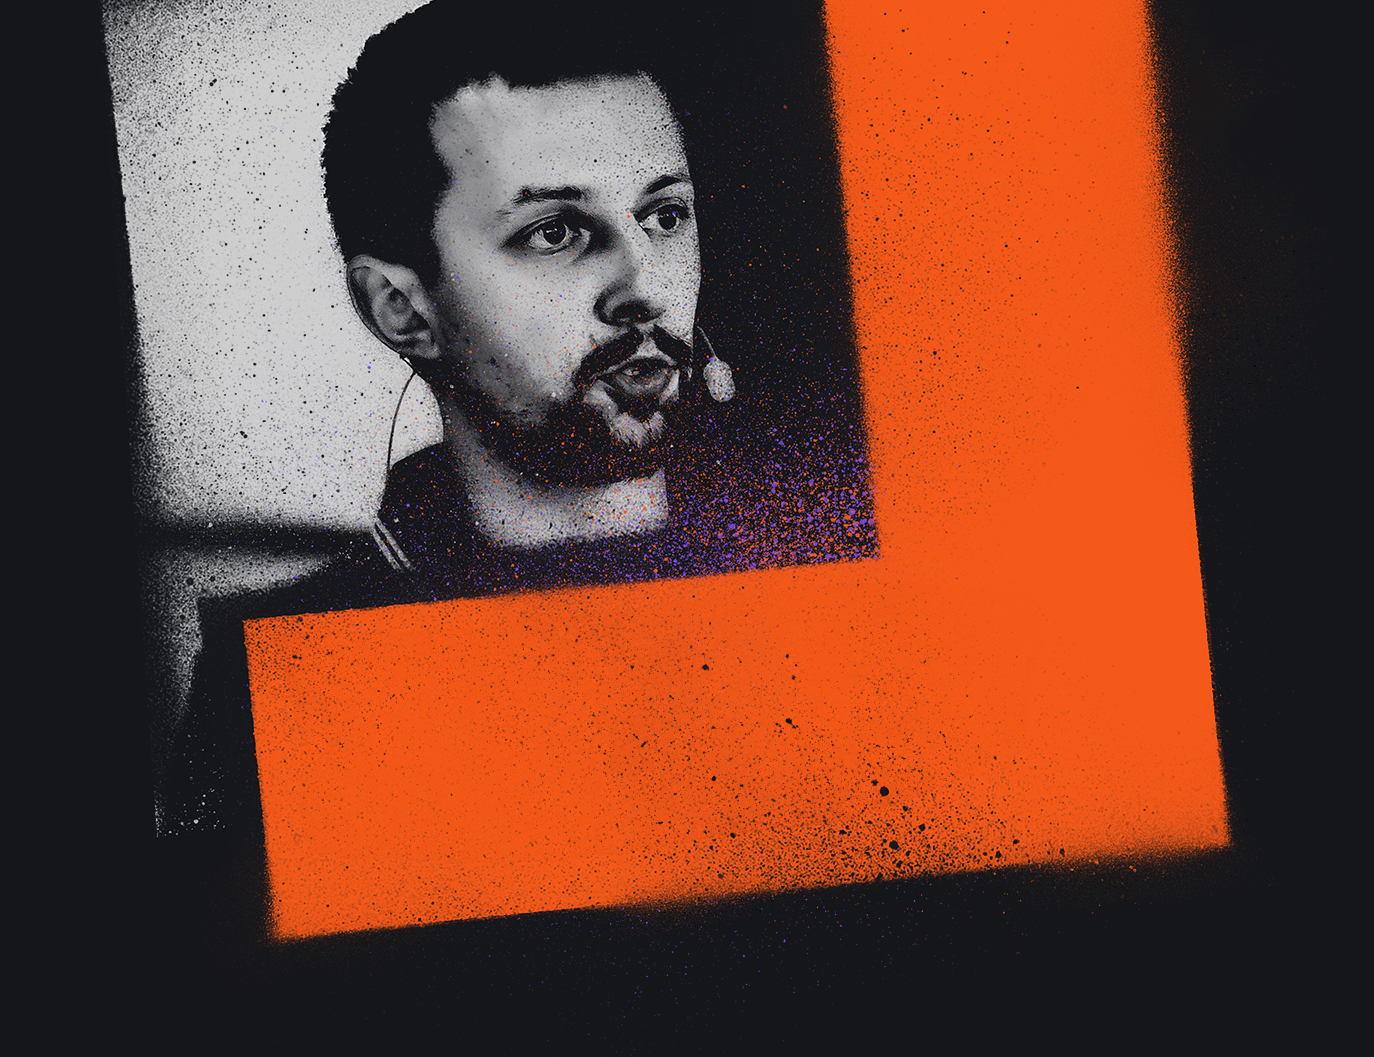
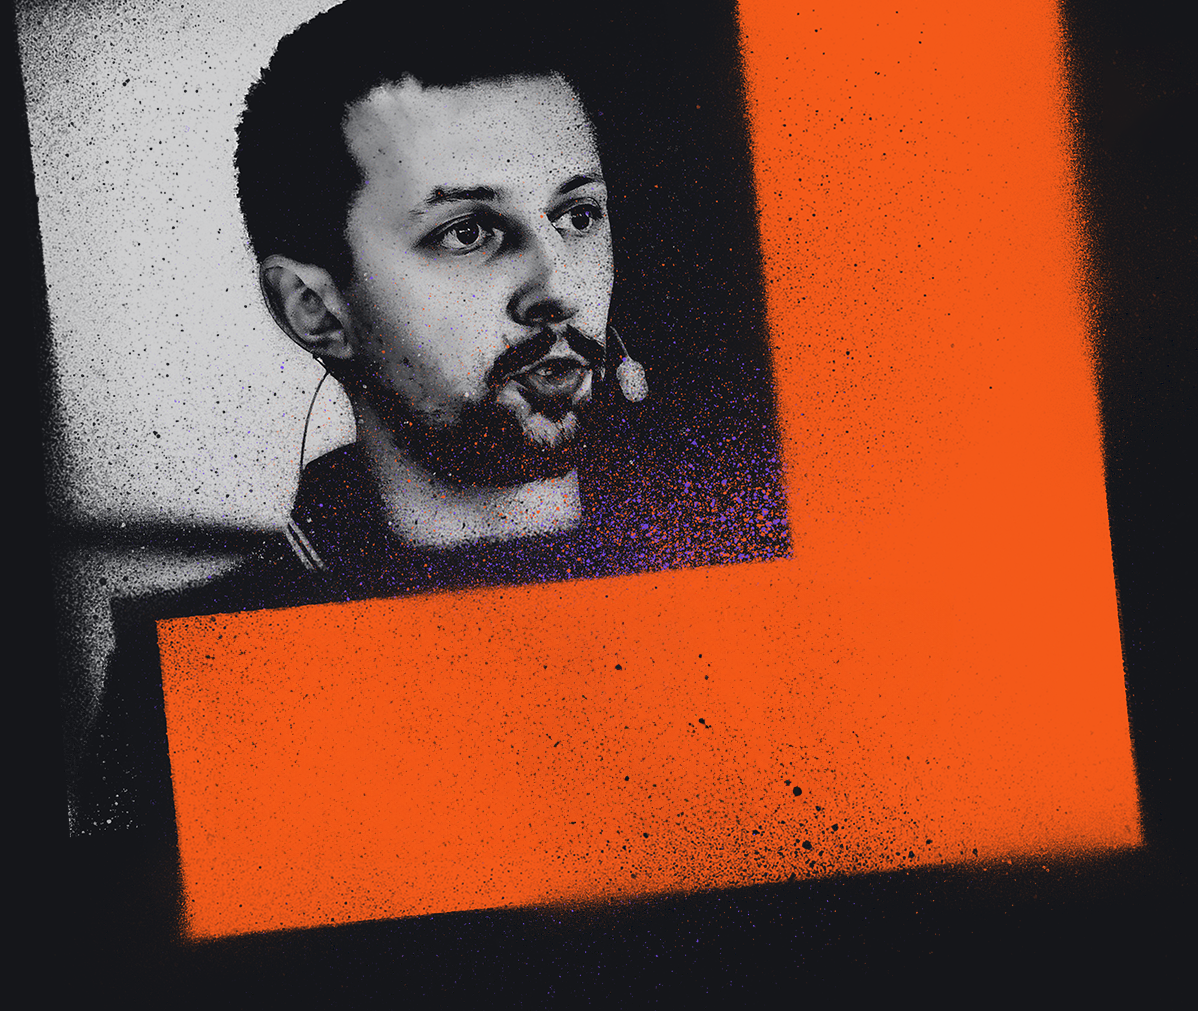
Minor updates to media page

diff --git a/src/pages/2023/media.jsx b/src/pages/2023/media.jsx
@@ -170,7 +170,7 @@ const MediaPage = () => {
           node {
             base
             childImageSharp {
-              gatsbyImageData(width: 400, height: 400, layout: FULL_WIDTH)
+              gatsbyImageData(width: 400, height: 400, layout: CONSTRAINED)
             }
           }
         }

diff --git a/src/pages/2023/media.module.scss b/src/pages/2023/media.module.scss
@@ -146,7 +146,7 @@
     &::before {
       @include play();
       position: absolute;
-      width: 17%;
+      width: 20%;
       height: 20%;
       bottom: 5%;
       left: 5%;
@@ -168,6 +168,7 @@
   strong {
     line-height: 1;
     margin-bottom: 1em;
+    margin-top: 0;
   }
 
   span {
